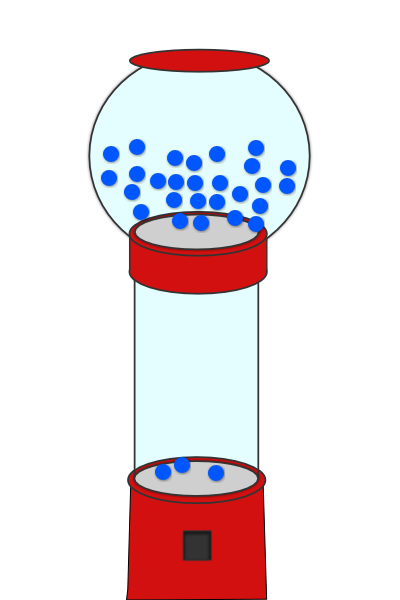
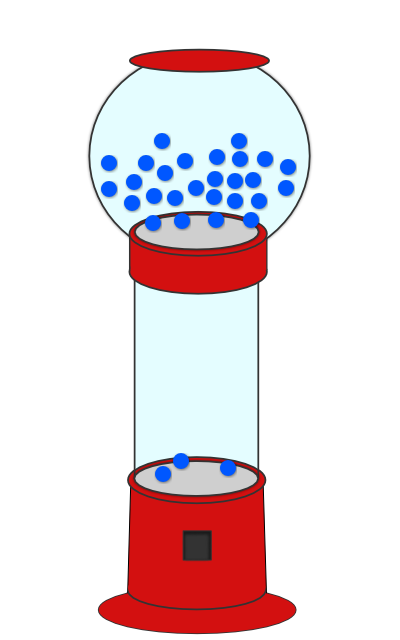
add pedestal; randomize color across participants instead of trials

Changed region(s): [[0.21, 0.06, 0.78, 0.51], [0.24, 0.69, 0.75, 1.0], [0.72, 0.15, 0.75, 0.18]]

diff --git a/experiments/0_free_production/experiment-cond-0.html b/experiments/0_free_production/experiment-cond-0.html
@@ -113,7 +113,7 @@
                     On the following pages, you will see two gumball machines which are connected to a button, as shown below.
                 </p>
                 <div class="gumball-canvas">
-                    <img class="gumball-machine-left" width="200" height="300" src="./stimuli/gumball_orange_0.png"> <a href="#" onclick="_s.button();return false;"><img class="gumball-button" width="50" height="50" src="./stimuli/button.png" style="margin-bottom:50px;"></a> <img class="gumball-machine-right" width="200" height="300" src="./stimuli/gumball_blue_0.png">
+                    <img class="gumball-machine-left" width="200" height="320" src="./stimuli/gumball_orange_0.png"> <a href="#" onclick="_s.button();return false;"><img class="gumball-button" width="50" height="50" src="./stimuli/button.png" style="margin-bottom:70px;"></a> <img class="gumball-machine-right" width="200" height="320" src="./stimuli/gumball_blue_0.png">
                 </div>
                 <p>
                     Please click on the red button to continue.
@@ -127,7 +127,7 @@
                     Once you click on the red button, both gumball machines will dispense a random number of gumballs.
                 </p>
                 <div class="gumball-canvas">
-                    <img class="gumball-machine-left" width="200" height="300" src="./stimuli/gumball_orange_0.png"> <img class="gumball-button" width="50" height="50" src="./stimuli/button.png" style="margin-bottom:50px;"> <img class="gumball-machine-right" width="200" height="300" src="./stimuli/gumball_blue_100.png">
+                    <img class="gumball-machine-left" width="200" height="320" src="./stimuli/gumball_orange_0.png"> <img class="gumball-button" width="50" height="50" src="./stimuli/button.png" style="margin-bottom:70px;"> <img class="gumball-machine-right" width="200" height="320" src="./stimuli/gumball_blue_100.png">
                 </div>
                 <p>
                     <input type="button" onclick="_s.button()" class="button" value="Continue">

diff --git a/experiments/0_free_production/js/template.js b/experiments/0_free_production/js/template.js
@@ -1,12 +1,13 @@
 var N_TRIALS = 15;
 
 
+var cols = _.shuffle(COLORS);
+
 
 function build_trials() {
     var trials = [];
     var selected_combinations = _.sample(combinations, N_TRIALS);
     for (var i = 0; i < N_TRIALS; i++) {
-        var cols = _.shuffle(COLORS);
         var ps = _.shuffle(selected_combinations[i]);
         trials.push({
             "col1": cols[0],
@@ -165,8 +166,8 @@ function make_slides(f) {
             exp.data = {
                 "trials": exp.data_trials,
                 "system": exp.system,
-                "condition": exp.condition,
-                "misread_instructions": exp.misread_instructions,
+                "condition": null,
+                "misread_instructions": null,
                 "subject_information": exp.subj_data,
                 "time_in_minutes": (Date.now() - exp.startT) / 60000
             };

diff --git a/experiments/0_free_production/css/local-style.css b/experiments/0_free_production/css/local-style.css
@@ -39,7 +39,7 @@ p.train-instructions {
 
 .gumball-canvas {
   background: url('../stimuli/cables.png');
-  background-size: 101% 98%;
+  background-size: 101% 92%;
   margin: 0 175px 0;
   width: 460px;
 }
